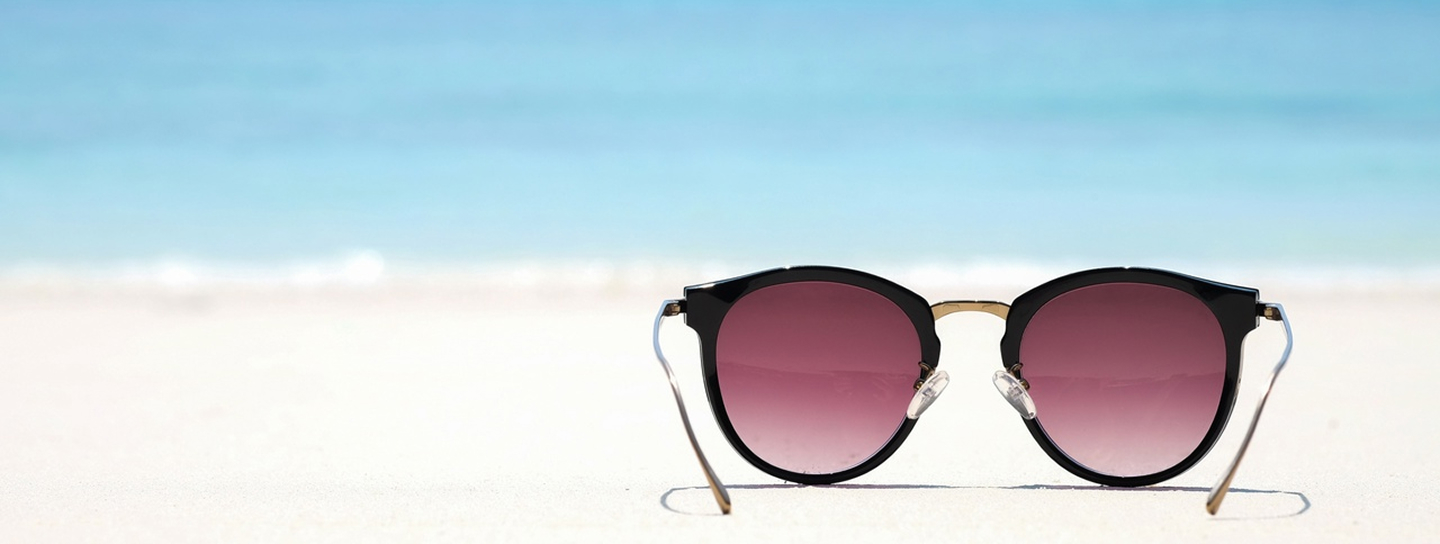
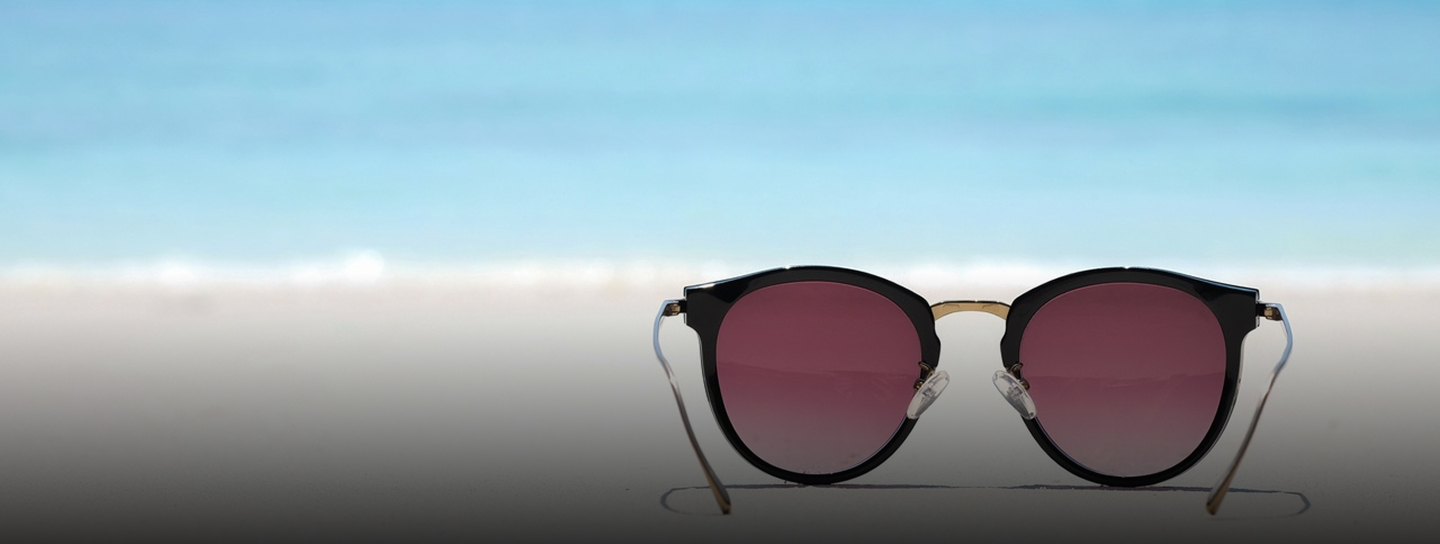
blog page styling

diff --git a/components/content.js b/components/content.js
@@ -4,86 +4,15 @@ import PropTypes from "prop-types";
 
 const Content = memo(({ className = "" }) => {
   return (
-    <div
-      className={`h-[2080px] flex-1 relative max-w-full text-left text-xl text-black font-h4-32 ${className}`}
-    >
-      <ContentItems emptyContent="/5-3@2x.png" />
-      <ContentItems
-        contentItemsLeft="402px"
-        contentItemsTop="60px"
-        emptyContent="/5-4@2x.png"
-      />
-      <ContentItems
-        contentItemsLeft="724px"
-        contentItemsTop="60px"
-        emptyContent="/5-3@2x.png"
-      />
-      <ContentItems
-        contentItemsLeft="1046px"
-        contentItemsTop="60px"
-        emptyContent="/5-4@2x.png"
-      />
-      <ContentItems
-        contentItemsLeft="80px"
-        contentItemsTop="540px"
-        emptyContent="/5-3@2x.png"
-      />
-      <ContentItems
-        contentItemsLeft="402px"
-        contentItemsTop="540px"
-        emptyContent="/5-4@2x.png"
-      />
-      <ContentItems
-        contentItemsLeft="724px"
-        contentItemsTop="540px"
-        emptyContent="/5-3@2x.png"
-      />
-      <ContentItems
-        contentItemsLeft="1046px"
-        contentItemsTop="540px"
-        emptyContent="/5-4@2x.png"
-      />
-      <ContentItems
-        contentItemsLeft="80px"
-        contentItemsTop="1020px"
-        emptyContent="/5-3@2x.png"
-      />
-      <ContentItems
-        contentItemsLeft="402px"
-        contentItemsTop="1020px"
-        emptyContent="/5-4@2x.png"
-      />
-      <ContentItems
-        contentItemsLeft="724px"
-        contentItemsTop="1020px"
-        emptyContent="/5-3@2x.png"
-      />
-      <ContentItems
-        contentItemsLeft="1046px"
-        contentItemsTop="1020px"
-        emptyContent="/5-4@2x.png"
-      />
-      <ContentItems
-        contentItemsLeft="80px"
-        contentItemsTop="1500px"
-        emptyContent="/5-3@2x.png"
-      />
-      <ContentItems
-        contentItemsLeft="402px"
-        contentItemsTop="1500px"
-        emptyContent="/5-4@2x.png"
-      />
-      <ContentItems
-        contentItemsLeft="724px"
-        contentItemsTop="1500px"
-        emptyContent="/5-3@2x.png"
-      />
-      <ContentItems
-        contentItemsLeft="1046px"
-        contentItemsTop="1500px"
-        emptyContent="/5-4@2x.png"
-      />
-      <div className="absolute top-[1980px] left-[628.5px] bg-black w-[183px] overflow-hidden flex flex-row items-center justify-center py-2 px-[39px] box-border whitespace-nowrap text-center text-base text-background-color-primary cursor-pointer hover:bg-white hover:text-black hover:border-[1px] hover:border-solid transition-all duration-300">
+    <div className="self-stretch flex flex-col items-center justify-start gap-10 mq750:gap-5">
+      <div
+        className={`self-stretch flex flex-row items-center justify-center flex-wrap content-start gap-x-2 gap-y-6}`}
+      >
+        {[1, 2, 3, 4, 5, 6, 7, 8, , 9, 10, 11, 12]?.map((x, i) => (
+          <ContentItems emptyContent="/5-3@2x.png" />
+        ))}
+      </div>
+      <div className="bg-black w-[183px] overflow-hidden flex flex-row items-center justify-center py-2 px-[39px] box-border whitespace-nowrap text-center text-base text-background-color-primary cursor-pointer hover:bg-white hover:text-black hover:border-[1px] hover:border-solid transition-all duration-300">
         <div className="flex-1 relative leading-[150%] font-medium">
           LOAD MORE
         </div>

diff --git a/pages/blog.js b/pages/blog.js
@@ -1,17 +1,13 @@
-import FrameComponent from "../components/frame-component";
+import FrameComponent1 from "../components/frame-component1";
 import Content from "../components/content";
-import LowerContent from "../components/lower-content";
+import JoinWrapper from "../components/join-wrapper";
 import Footer from "../components/footer";
 
 const Blog = () => {
   return (
-    <div className="w-full relative bg-gray-100 overflow-hidden flex flex-col items-start justify-start pt-[50px] px-0 pb-0 box-border leading-[normal] tracking-[normal]">
-      <FrameComponent
-        logo="/logo@2x.png"
-        search="/search2.svg"
-        sVG="/svg2.svg"
-      />
-      <section className="self-stretch overflow-hidden flex flex-col items-start justify-end pt-[340px] px-[284px] pb-[60px] gap-6 bg-[url('/blogbanner.jpg')] bg-cover bg-no-repeat bg-[top] text-center text-21xl text-background-color-primary font-h4-32 mq480:pl-5 mq480:pr-5 mq480:box-border mq750:pt-[221px] mq750:px-[142px] mq750:pb-[39px] mq750:box-border">
+    <div className="w-full relative bg-gray-100 overflow-hidden flex flex-col items-center justify-center px-0 pb-0 box-border leading-[normal] tracking-[normal] mq750:gap-[17px]">
+      <FrameComponent1 />
+      <section className="self-stretch overflow-hidden flex flex-col items-start justify-end pt-[340px] px-[284px] pb-[60px] gap-6 bg-[url('/blogbanner.jpg')] bg-cover bg-no-repeat bg-center text-center text-21xl text-background-color-primary font-h4-32 mq480:pl-5 mq480:pr-5 mq480:box-border mq750:pt-[221px] mq750:px-[142px] mq750:pb-[39px] mq750:box-border">
         <div className="self-stretch flex flex-row items-start justify-start py-0 px-[388px] mq480:pl-5 mq480:pr-5 mq480:box-border mq1050:pl-[194px] mq1050:pr-[194px] mq1050:box-border">
           <h1 className="m-0 flex-1 relative text-inherit leading-[120%] font-medium font-[inherit] mq480:text-5xl mq480:leading-[29px] mq750:text-13xl mq750:leading-[38px]">
             Blog
@@ -24,10 +20,20 @@ const Blog = () => {
           elit sed risus.
         </div>
       </section>
-      <div className="self-stretch flex flex-row items-start justify-start pt-0 px-0 pb-[60px] box-border max-w-full mq750:pb-5 mq750:box-border mq1050:pb-[25px] mq1050:box-border mq1250:pb-[39px] mq1250:box-border">
+      <div className="self-stretch flex flex-row items-start justify-start pt-[60px] px-0 pb-[60px] mq480:pt-[40px] mq480:pb-[40px] box-border max-w-full mq750:pb-5 mq750:box-border mq1050:pb-[25px] mq1050:box-border mq1250:pb-[39px] mq1250:box-border">
         <Content />
       </div>
-      <LowerContent />
+      <section className="flex flex-col items-start justify-start pt-0 pb-[60px] mq480:pb-[40px] pl-5 pr-0 box-border gap-[60px] max-w-full text-left text-21xl text-black font-h4-32 mq750:gap-[30px]">
+        <JoinWrapper
+          joinWrapperPadding="0px 20px 0px 0px"
+          joinWrapperFlex="unset"
+          joinWrapperAlignSelf="unset"
+          emptyPlaceholders="/8@2x.png"
+          emptyPlaceholders1="/7@2x.png"
+          emptyPlaceholders2="/6@2x.png"
+          emptyPlaceholders3="/5@2x.png"
+        />
+      </section>
       <Footer
         maskGroup="/mask-group@2x.png"
         formMargin="0"

diff --git a/pages/contact.js b/pages/contact.js
@@ -10,7 +10,7 @@ const Contact = () => {
     <div className="w-full relative bg-gray-100 overflow-hidden flex flex-col items-center justify-center px-0 pb-0 box-border leading-[normal] tracking-[normal] mq750:gap-[17px]">
       <FrameComponent1 />
       <section className="self-stretch flex flex-row items-start justify-start pt-0 px-0 pb-[26px] box-border max-w-full text-center text-21xl text-background-color-primary font-h4-32">
-        <div className="flex-1 overflow-hidden flex flex-col items-start justify-end pt-[340px] px-[284px] pb-[60px] box-border gap-6 bg-[url('/contactbanner.jpg')] bg-cover bg-no-repeat bg-[top] max-w-full mq480:pl-5 mq480:pr-5 mq480:box-border mq750:pt-[221px] mq750:px-[142px] mq750:pb-[39px] mq750:box-border">
+        <div className="flex-1 overflow-hidden flex flex-col items-start justify-end pt-[340px] px-[284px] pb-[60px] box-border gap-6 bg-[url('/contactbanner.jpg')] bg-cover bg-no-repeat bg-center max-w-full mq480:pl-5 mq480:pr-5 mq480:box-border mq750:pt-[221px] mq750:px-[142px] mq750:pb-[39px] mq750:box-border">
           <div className="self-stretch flex flex-row items-start justify-start py-0 pl-[324px] pr-[323px] mq480:pl-5 mq480:pr-5 mq480:box-border mq1050:pl-[162px] mq1050:pr-[161px] mq1050:box-border">
             <h1 className="m-0 flex-1 relative text-inherit leading-[120%] font-medium font-[inherit] mq480:text-5xl mq480:leading-[29px] mq750:text-13xl mq750:leading-[38px]">
               Contact Us

diff --git a/components/content-items.js b/components/content-items.js
@@ -13,7 +13,7 @@ const ContentItems = memo(
 
     return (
       <div
-        className={`absolute top-[60px] left-[80px] w-[314px] h-[456px] flex flex-col items-start justify-start pt-0 px-0 pb-4 box-border gap-4 text-left text-xl text-black font-h4-32 ${className}`}
+        className={`w-[314px] h-[456px] flex flex-col items-start justify-start pt-0 px-0 pb-4 box-border gap-4 text-left text-xl text-black font-h4-32 ${className}`}
         style={contentItemsStyle}
       >
         <Image
